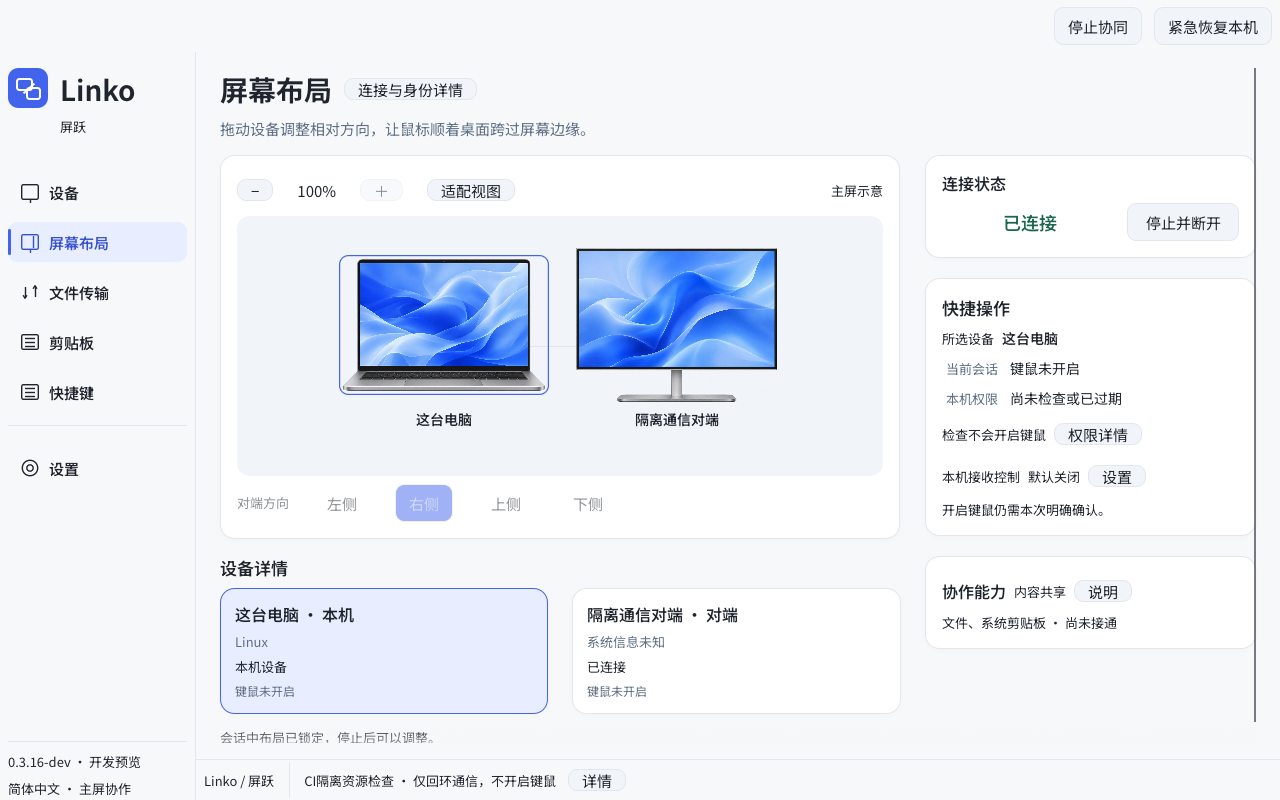
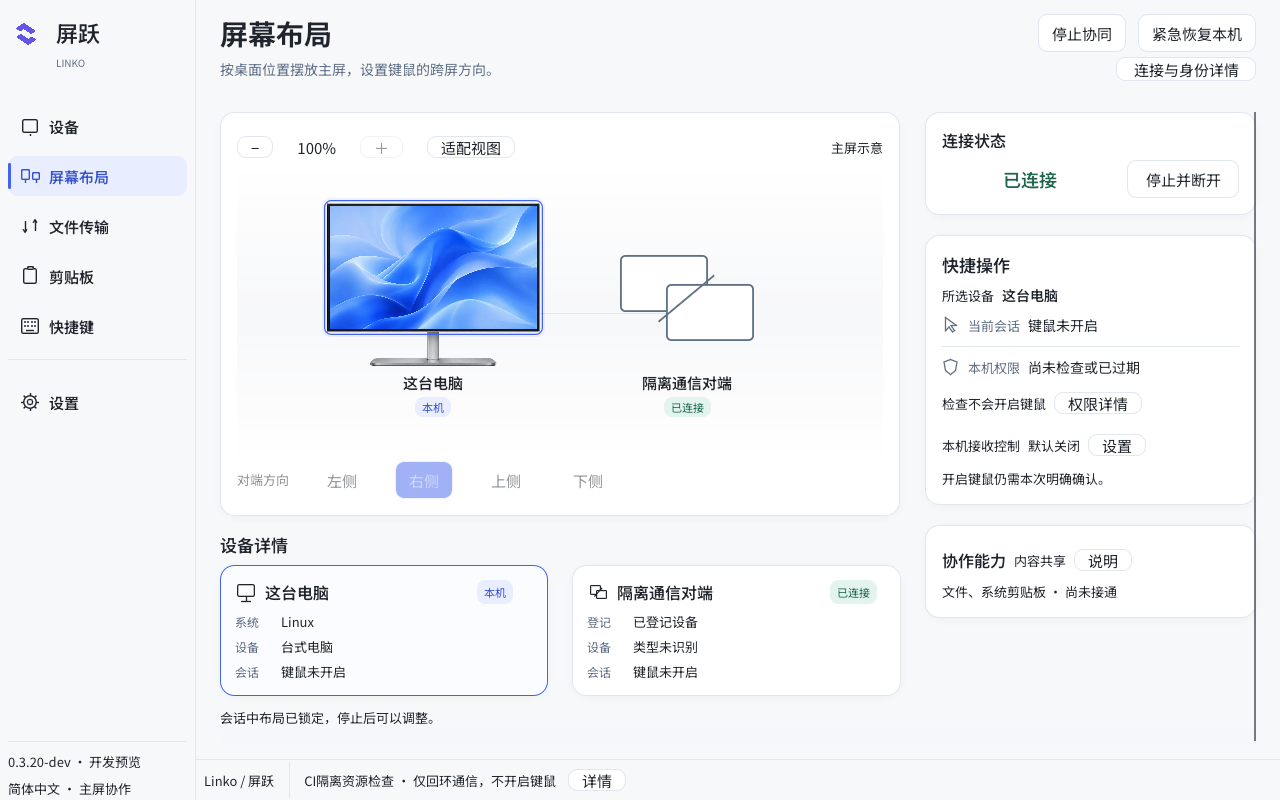
同步功能交付状态与官网A品牌及候选界面

diff --git a/website/src/index.html b/website/src/index.html
@@ -54,7 +54,7 @@
           <a class="button button-primary" href="#preview">查看开发版<span aria-hidden="true">↗</span></a>
           <a class="button button-secondary" href="https://github.com/ForceMind/Linko" target="_blank" rel="noopener noreferrer">在 GitHub 了解项目<span aria-hidden="true">→</span></a>
         </div>
-        <p class="hero-status">当前为开发预览，真实 Windows ↔ macOS 双机键鼠体验仍在验收中。</p>
+        <p class="hero-status">当前为开发预览，此前真实试跑已连接但不能跨屏，修复候选尚未完成双机重测。</p>
         <ul class="hero-points" aria-label="首版范围"><li>局域网连接</li><li>两台主显示器</li><li>权限分别同意</li></ul>
       </section>
 
@@ -64,7 +64,7 @@
           <a class="app-frame" href="./assets/app-preview.png" target="_blank" rel="noopener noreferrer" aria-label="在新标签页查看 Linko 开发版实际界面原图">
             <img src="./assets/app-preview.png" width="1280" height="800" alt="Linko 开发版的屏幕布局界面，展示两台电脑及独立的连接、会话与本机接收控制设置。" fetchpriority="high" decoding="async">
           </a>
-          <figcaption><span><span class="caption-mark" aria-hidden="true"></span>开发版实际界面 · 隔离 NoNative 通信（未启用原生键鼠）</span><a href="./assets/app-preview.png" target="_blank" rel="noopener noreferrer">查看原图<span aria-hidden="true">↗</span></a></figcaption>
+          <figcaption><span><span class="caption-mark" aria-hidden="true"></span>0.3.20-dev 候选实际界面 · NoNative（公开下载仍为 0.3.17-dev）</span><a href="./assets/app-preview.png" target="_blank" rel="noopener noreferrer">查看原图<span aria-hidden="true">↗</span></a></figcaption>
         </figure>
       </section>
 
@@ -90,10 +90,11 @@
 
       <section class="progress-section section-space wrap" id="progress" aria-labelledby="progress-title">
         <div class="section-heading split-heading"><div><p class="eyebrow">公开说明进度</p><h2 id="progress-title">已有的，和还在路上的。</h2></div><p class="section-intro">Linko 正在逐项验证协作能力。界面与流程已实现，不代表已完成真实双机验收。</p></div>
+        <p class="hero-status">状态更新：2026-11-09 · <a href="https://github.com/ForceMind/Linko/blob/project-status-site/docs/STATUS.zh-CN.md" target="_blank" rel="noopener noreferrer">查看完整功能状态与剩余范围 ↗</a></p>
         <div class="progress-grid">
-          <article class="progress-card progress-now"><span class="stage-label">现在<span>开发版已实现流程</span></span><h3>先让两台电脑<br>彼此认识。</h3><ul><li>短码核验与双方记住设备</li><li>主屏相对方向与中文工作区</li><li>独立权限检查、明确开启与停止恢复入口</li></ul><p class="progress-foot">真实双机键鼠、DPI 与兼容性仍在验收。</p></article>
-          <article class="progress-card"><span class="stage-label">接下来<span>继续验证与接通</span></span><h3>把基础验证做完整，<br>再扩展协作。</h3><ul><li>真实 Windows ↔ macOS 双机验证</li><li>系统剪贴板与文件收发尚未接通</li><li>全局鼠标手势尚未接通</li></ul><p class="progress-foot">内容共享与动作能力将分别授权。</p></article>
-          <article class="progress-card"><span class="stage-label">未来<span>研究与规划</span></span><h3>探索更广的<br>工作空间。</h3><ul><li>更完整的多屏与音频协作</li><li>远程窗口与工作空间</li><li>移动端控制方式</li></ul><p class="progress-foot">方向会随验证结果调整，没有发布时间承诺。</p></article>
+          <article class="progress-card progress-now"><span class="stage-label">现在<span>开发版已实现流程</span></span><h3>先让两台电脑<br>彼此认识。</h3><ul><li>短码核验与双方记住设备</li><li>主屏相对方向与中文工作区</li><li>独立权限检查、明确开启与停止恢复入口</li></ul><p class="progress-foot">真实双机跨屏尚未通过；键盘、DPI 与故障恢复矩阵仍待验收。</p></article>
+          <article class="progress-card"><span class="stage-label">接下来<span>继续验证与接通</span></span><h3>把基础验证做完整，<br>再扩展协作。</h3><ul><li>真实 Windows ↔ macOS 双机验证</li><li>系统剪贴板与文件收发尚未接通</li><li>全局鼠标手势尚未接通</li></ul><p class="progress-foot">0.3.20-dev 已有切换竞争修复和新品牌，尚未公开发布；V2 排版未完整落地。</p></article>
+          <article class="progress-card"><span class="stage-label">未来<span>研究与规划</span></span><h3>探索更广的<br>工作空间。</h3><ul><li>多设备与多显示器拓扑</li><li>Linux 原生键鼠后端</li><li>签名、公证与安装更新</li></ul><p class="progress-foot">全局 G1、系统剪贴板和文件收发尚未接通。</p></article>
         </div>
       </section>
 
@@ -114,7 +115,7 @@
           <details><summary>两台电脑需要使用同一种系统吗？<span aria-hidden="true">＋</span></summary><p>Linko 面向 Windows 与 macOS 的局域网协同。当前首版范围是两台电脑、每台一个主显示器；Linux 目前仅用于通信与界面诊断。真实跨系统键鼠体验仍在验证。</p></details>
           <details><summary>记住设备后，对方就能控制我吗？<span aria-hidden="true">＋</span></summary><p>不会。设备登记与使用许可分别处理。本机是否接收对方控制，由本机单独选择；启动键鼠协同还需要权限检查与本次明确确认。连接成功也不会开放剪贴板或文件权限。</p></details>
           <details><summary>剪贴板、文件和跨屏拖拽能用了吗？<span aria-hidden="true">＋</span></summary><p>系统剪贴板、生产文件收发与原生文件跨屏拖拽尚未接通。音频、多屏、远程窗口、工作空间与移动控制仍是后续研究或规划，不是当前开发包的能力。</p></details>
-          <details><summary>需要注册账号吗？为什么下载会打开 GitHub？<span aria-hidden="true">＋</span></summary><p>App 的局域网协作不需要应用账号。当前开发包通过 GitHub 构建产物提供，免登录直接下载。构建产物可能受保留期限影响；入口不可用时，可查看项目构建记录或在项目问题页反馈。</p></details>
+          <details><summary>需要注册账号吗？为什么下载会打开 GitHub？<span aria-hidden="true">＋</span></summary><p>App 的局域网协作不需要应用账号。当前开发包通过 GitHub Releases 提供，免登录直接下载。公开版本与最新候选分别标明；入口不可用时请在项目问题页反馈。</p></details>
         </div>
       </section>
     </main>

diff --git a/docs/STATUS.zh-CN.md b/docs/STATUS.zh-CN.md
@@ -1,0 +1,46 @@
+# 功能与交付状态
+
+核对日期：2026-11-09。功能尚未全部完成，当前没有正式稳定版。
+
+## 版本与入口
+
+| 入口 | 版本／提交 | 实际范围 |
+| --- | --- | --- |
+| [公开下载](https://github.com/ForceMind/Linko/releases/tag/v0.3.17-dev) | 0.3.17-dev／9797d60 | 免登录开发预览；真实试跑已连接但跨屏失败 |
+| [最新修复候选](https://github.com/ForceMind/Linko/pull/84) | 0.3.20-dev／3c645c5 | 含切换提交竞争修复、A 跃迁品牌、Mac 图标留白；尚未发布至 Releases |
+| 主分支 | 921ea70（核对时） | 候选仍在堆叠 PR 中；未合并不等于 main 已更新 |
+
+候选 [五项平台 CI](https://github.com/ForceMind/Linko/actions/runs/42501372361) 与 [两项资源检查](https://github.com/ForceMind/Linko/actions/runs/42501372355) 通过。这不是双机物理验收或独立安全审查。
+
+## 已实现并有自动验证
+
+- 认证连接、短码核验、双方登记、独立接收许可、明确启用与停止。
+- Windows/macOS 原生捕获和接收、主显示器相对方向、键盘跟随与恢复模型。
+- 切换回执后的本机提交竞争修复：保留原期限，有界重试并在停止、权限、归属变化时取消。
+- 中文 GUI、真实本机设备类型探测、未知对端的中性图标、固定启用确认区。
+- A 跃迁图标与中文主字标；macOS 专用透明外边距及资源回归。
+- 离线手势／规则预览、数据授权模型、离线剪贴板／文件存储基础。
+
+## 已实现但实机未通过／未验收
+
+- **基础跨屏尚未通过**：0.3.17-dev 的 Mac→Windows 已认证连接，但物理右边缘和 Control＋Option＋右方向键均未进入 Windows；停止后 worker 正常退出。
+- 0.3.19／0.3.20 候选包含修复，尚未双机物理重测；不能认定已解决上述故障。
+- 四边、键盘／修饰键、滚轮、拖拽、DPI、紧急恢复、物理接管、断网、退出、睡眠与撤权矩阵仍未完成，见 [Issue #3](https://github.com/ForceMind/Linko/issues/3)。
+- Mac 图标修复已原位更新，Dock 与相邻应用的实际视觉大小仍待确认。新 V2 紧凑线稿尚未完整实现，不能称为设计还原完成。
+
+## 尚未实现
+
+| 范围 | 剩余工作 |
+| --- | --- |
+| 本机 G1 | 唯一捕获生命周期内仲裁、真实应用／焦点上下文、原生动作 Backend、独立同意的本地 worker及恢复 |
+| 数据协作 | 协商后的独立认证数据流、调度／背压、系统剪贴板、跨重启磁盘配额、文件同意／取消／恢复／进度 UI |
+| 桌面扩展 | V2 完整排版、精细多显示器拓扑、多设备、Linux 原生输入 |
+| 发布工程 | 长期稳定性与资源观察、正式代码签名／公证、安装更新与稳定版验收 |
+
+文件跨屏拖放、图片剪贴板、文件发送闭环和 G2 均为后续；不提供任意远程命令或脚本执行。
+
+## 客观条件与下一步
+
+本机缺 Rust 工具链，按用户决定不安装；本次文档／官网不改 Rust，候选 Rust 证据采用精确提交 CI。真实验收需要 Windows 与 macOS 两端就绪及用户物理操作，模拟事件不替代。历史内存增长和 [#10](https://github.com/ForceMind/Linko/issues/10) 根因仍未确认。
+
+当前顺序仍为：候选双机跨屏补验与阻塞修复 → 完成键鼠故障恢复矩阵 → 完善既有桌面体验 → G1 与数据协作。实现不等于已验收，候选不等于已发布。

diff --git a/website/README.md b/website/README.md
@@ -1,6 +1,6 @@
 # Linko / 屏跃官网
 
-中文静态官网，站点版本 **0.1.2**。Cloudflare Pages 项目 `linko`，正式访问地址：
+中文静态官网，站点版本 **0.1.3**。Cloudflare Pages 项目 `linko`，正式访问地址：
 <https://linko-63e.pages.dev/>。
 
 官网独立于原生 App，不改变 App 的版本、设备身份、权限或协议。仅发布
@@ -40,12 +40,14 @@ npx --no-install wrangler pages deploy dist --project-name linko --branch main
 
 ## 公开素材与下载来源
 
-- `assets/linko-mark.svg`：本项目原创双屏标识，来源于 `docs/design/linko-v1/brand/app-icon.svg`。
-- `assets/app-preview.png`：代码 `cb27bce72ece205f138180fd1b6ef0c8cbf0764f`
+- `assets/linko-mark.svg`：已确认 A 跃迁标识，来源于 `docs/design/linko-brand-v3/app-icon.svg`。
+- `assets/app-preview.png`：代码 `8c6ecbb6517b855f57f4d41ffb41092973cfbc25`
   的原生 GUI CI 原图，1280×800，隔离 NoNative 通信场景；未启用原生键鼠。
[2 lines of base64/hex data omitted]
   图内已实现页面不代表真实 Win/macOS 双机验收完成。
 - `release.json` 指向公开的 GitHub Pre-release 便携包，免登录下载。
   SHA-256 对应实际便携包 ZIP，不是 CI artifact 外层 ZIP。
 - 0.3.17-dev 程序与包来自受测提交 9797d60，直接使用核验后的 CI 原包；来源及摘要见对应 Release。
 - 原生包不托管到 Pages，当前仍是开发预览，未发布稳定版。
+
+截图为 0.3.20-dev 候选，与公开下载 0.3.17-dev 分别标注；候选尚未发布，也未完成真实双机验收。

diff --git a/README.md b/README.md
@@ -10,7 +10,11 @@ Linko 是使用 Rust 构建的局域网键鼠协作工具，面向 Windows 与 m
 
 ![Linko 中文屏幕布局界面](website/src/assets/app-preview.png)
 
-*开发版实际界面，隔离 NoNative 通信场景，未启用原生键鼠。*
+*0.3.20-dev 候选实际界面（8c6ecbb），隔离 NoNative 通信场景，未启用原生键鼠；公开下载仍为 0.3.17-dev。*
+
+## 当前进度
+
+**功能尚未全部完成。** 公开下载仍为 0.3.17-dev；最新 0.3.20-dev 修复候选尚未发布。此前真实 Mac→Windows 已连接但无法跨屏，候选包含竞争修复，尚未完成物理重测。新 V2 排版也未完整落地。详见[功能与交付状态](docs/STATUS.zh-CN.md)。
 
 ## 当前能做什么
 

diff --git a/docs/ROADMAP.md b/docs/ROADMAP.md
@@ -1,6 +1,6 @@
 # 路线图
 
-当前为 0.3.16-dev 开发预览。这里描述能力与验收门槛，不承诺日期；工程证据见 [VALIDATION](VALIDATION.md)。保留既有 M0–M5、G1/G2 标识。
+公开下载为 0.3.17-dev，最新修复候选为 0.3.20-dev；功能未全部完成，真实跨屏尚未通过。当前逐项状态见 [功能与交付状态](STATUS.zh-CN.md)。这里描述能力与验收门槛，不承诺日期；工程证据见 [VALIDATION](VALIDATION.md)。保留既有 M0–M5、G1/G2 标识。
 
 | 里程碑 | 已有基础 | 完成门槛 |
 | --- | --- | --- |

diff --git a/docs/DEVELOPMENT_PLAN.md b/docs/DEVELOPMENT_PLAN.md
@@ -1,5 +1,7 @@
 # Development plan
 
+当前状态（2026-11-09）见 [功能与交付状态](STATUS.zh-CN.md)。下文保留历史任务；公开版本 0.3.17-dev、候选 0.3.20-dev、main 与实机验收不能混为一谈。
+
 1. Reproducible M0 tests and native CI; fix compile/link failures.
 2. Executable loopback probe and negative authentication checks.
 3. Native input sessions, extended HID and shortcut mappings, permissions UX.

diff --git a/docs/README.md b/docs/README.md
@@ -1,5 +1,7 @@
 # Linko 文档
 
+[功能与交付状态](STATUS.zh-CN.md)：公开版本、候选、实机失败与剩余范围。
+
 ## 使用
 
 - [快速开始](GETTING_STARTED.zh-CN.md)：下载、校验、配对、授权、停止
